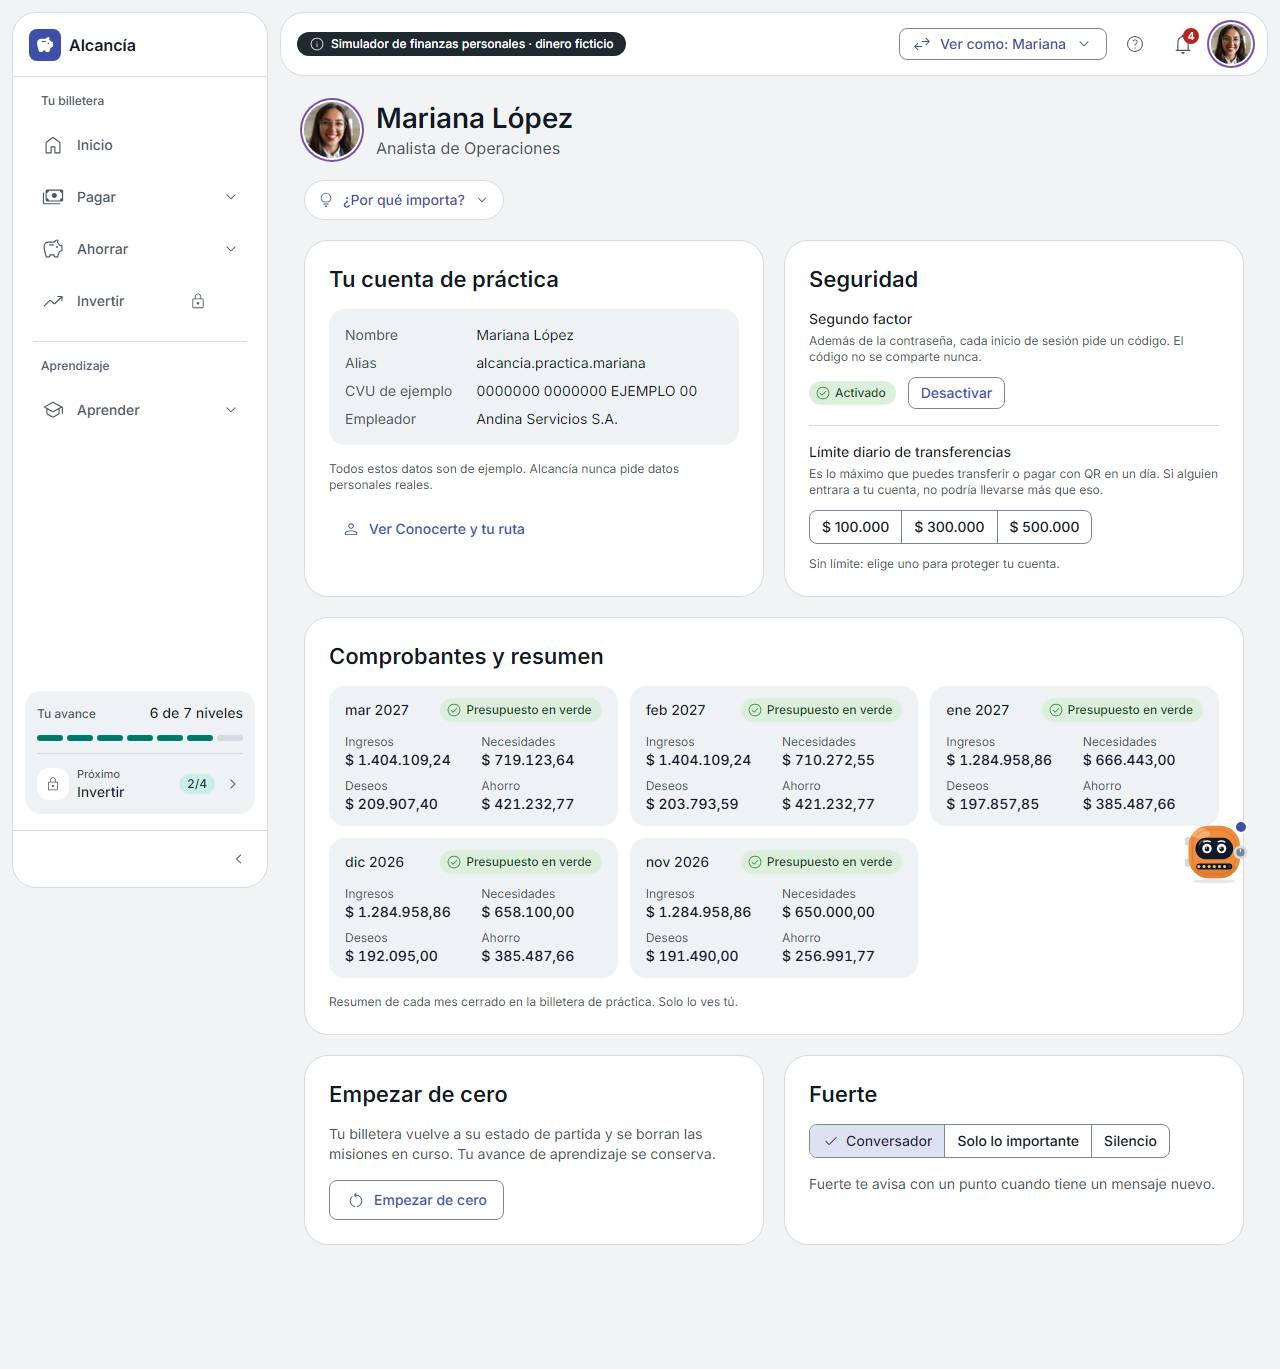
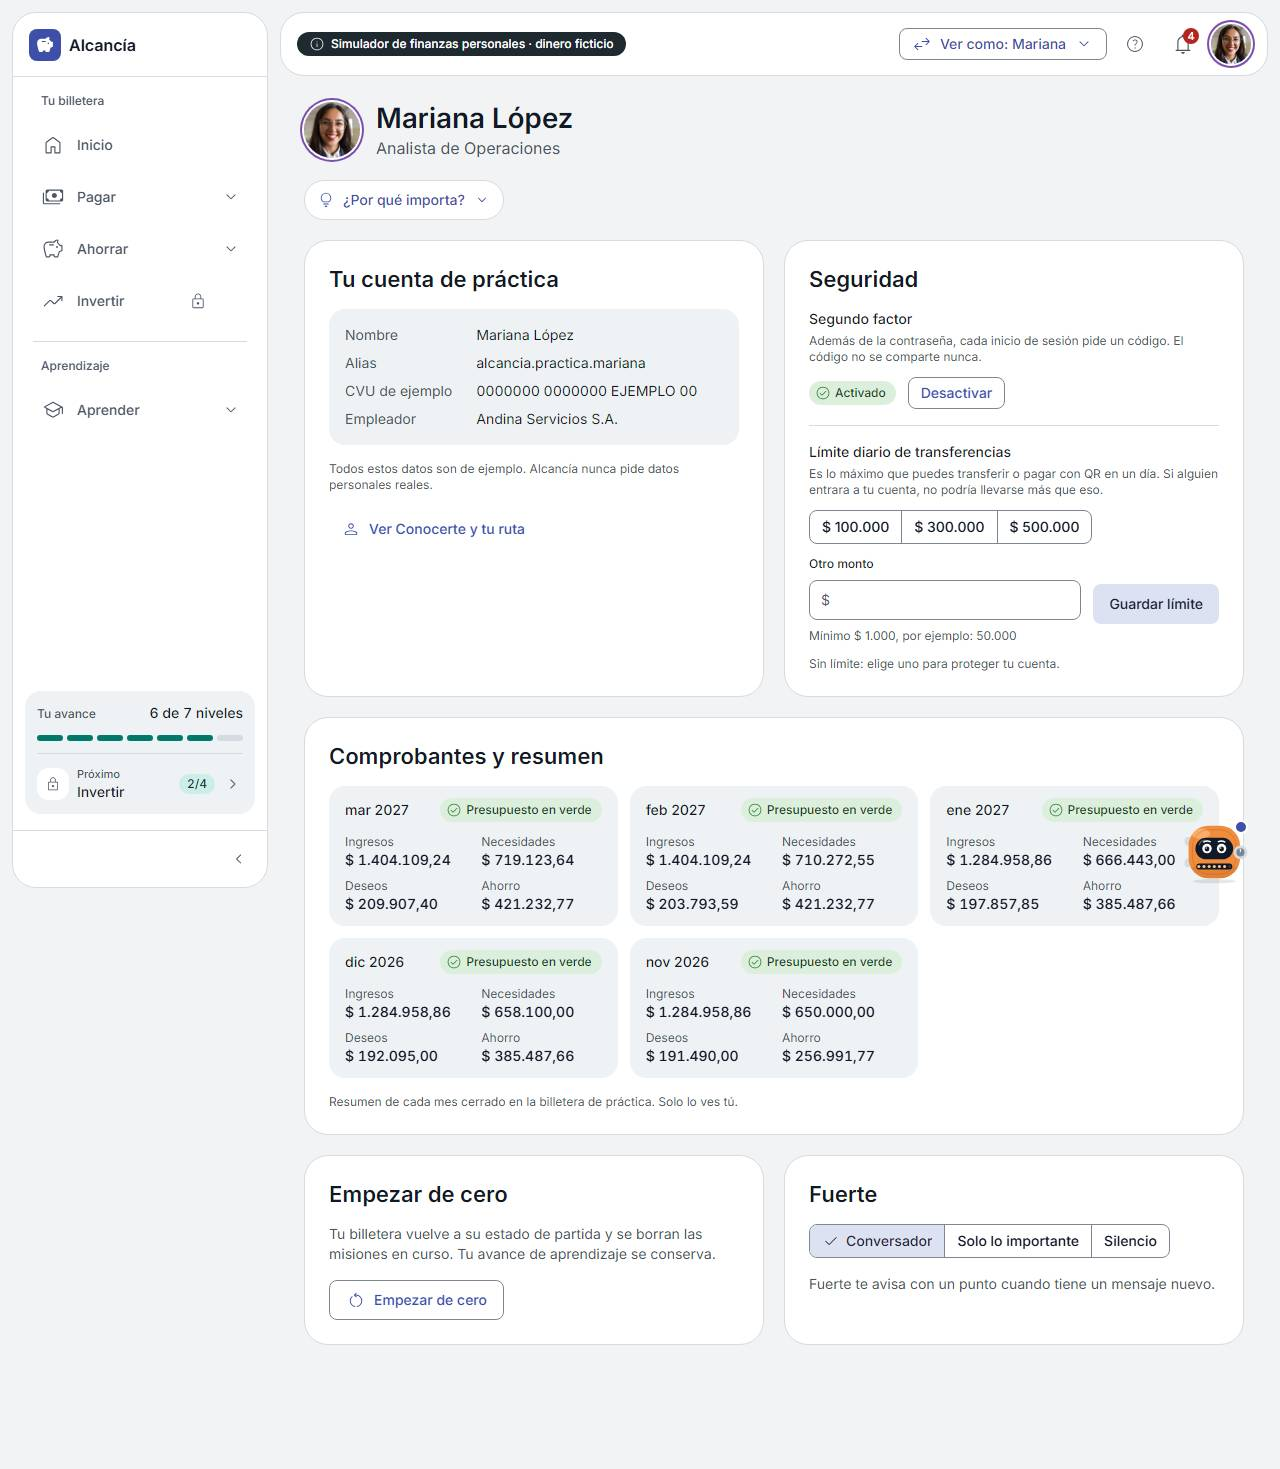
Own daily limit with a $ 1.000 minimum (D-222)
Profile adds "Otro monto" next to the three quick amounts; the engine refuses
a limit under $ 1.000 (limit_too_low), with a test.

diff --git a/src/features/profile/ProfilePage.tsx b/src/features/profile/ProfilePage.tsx
@@ -1,6 +1,7 @@
 import { useState } from 'react';
 import { useTranslation } from 'react-i18next';
 import { Link } from 'react-router';
+import { MoneyInput } from '@/components/money/MoneyInput';
 import { MoneyText } from '@/components/money/MoneyText';
 import { Avatar } from '@/components/ui/Avatar';
 import { Button } from '@/components/ui/Button';
@@ -12,9 +13,9 @@ import { toast } from '@/components/ui/toast-store';
 import { findPerson } from '@/features/auth/auth-service';
 import { AccountData } from '@/features/onboarding/AccountData';
 import { WalletShell } from '@/features/wallet/WalletShell';
-import { paidToday, setDailyLimit, setTwoFactor } from '@/features/wallet/engine/engine';
+import { MIN_DAILY_LIMIT, paidToday, setDailyLimit, setTwoFactor } from '@/features/wallet/engine/engine';
 import { walletDate } from '@/lib/dates';
-import { formatMoney } from '@/lib/money';
+import { formatMoney, parseDecimalInput } from '@/lib/money';
 import { type FuertePresence, readLocal, writeLocal } from '@/store/local-store';
 import { useCurrentUser } from '@/store/session-store';
 import { clearWallet, useWallet } from '@/store/wallet-store';
@@ -48,6 +49,20 @@ export function ProfilePage() {
   const [presence, setPresence] = useState<FuertePresence>(() => readLocal(personId).fuertePresence ?? 'chatty');
   const [confirmReset, setConfirmReset] = useState(false);
   const security = wallet.securitySettings;
+  // Own limit, at least $ 1.000 (D-222); the error appears only after trying to save
+  const [ownLimit, setOwnLimit] = useState('');
+  const [limitError, setLimitError] = useState<string | undefined>();
+  const saveOwnLimit = () => {
+    const parsed = parseDecimalInput(ownLimit);
+    if (!parsed || Number(parsed) < Number(MIN_DAILY_LIMIT)) {
+      setLimitError(t('profile.security.limitTooLow', { min: formatMoney(MIN_DAILY_LIMIT, { decimals: 0 }) }));
+      return;
+    }
+    setWallet((w) => setDailyLimit(w, parsed));
+    setLimitError(undefined);
+    setOwnLimit('');
+    toast.success(t('profile.security.limitSaved'));
+  };
   const card = 'flex flex-col gap-4 rounded-xl border border-outline-variant bg-surface-container-lowest p-(--space-card-padding)';
 
   const changePresence = (value: FuertePresence) => {
@@ -122,6 +137,22 @@ export function ProfilePage() {
               }}
               options={LIMITS.map((value) => ({ value, label: t('profile.security.limitOption', { amount: formatMoney(value, { decimals: 0 }) }) }))}
             />
+            <div className="flex flex-wrap items-start gap-3">
+              <MoneyInput
+                label={t('profile.security.limitOwn')}
+                helperText={t('profile.security.limitOwnHelp', { min: formatMoney(MIN_DAILY_LIMIT, { decimals: 0 }) })}
+                value={ownLimit}
+                onChange={(e) => {
+                  setOwnLimit(e.target.value);
+                  if (limitError) setLimitError(undefined);
+                }}
+                error={limitError}
+                className="min-w-0 flex-1 basis-48"
+              />
+              <Button variant="tonal" className="mt-7 shrink-0" onClick={saveOwnLimit}>
+                {t('profile.security.limitSave')}
+              </Button>
+            </div>
             {security.dailyLimit ? (
               <div className="flex flex-col gap-1.5">
                 <ProgressBar

diff --git a/src/features/wallet/engine/goals.test.ts b/src/features/wallet/engine/goals.test.ts
@@ -1,6 +1,6 @@
 import { describe, expect, it } from 'vitest';
 import { D } from '@/lib/finance';
-import { advanceDays, createPocket, createWallet, deletePocket, moveToPocket, nextGoalPocketId, setPocketGoal, WalletError } from './engine';
+import { setDailyLimit, advanceDays, createPocket, createWallet, deletePocket, moveToPocket, nextGoalPocketId, setPocketGoal, WalletError } from './engine';
 
 describe('new goal pockets', () => {
   it('gives every new goal its own id, so five goals are five pockets', () => {
@@ -45,5 +45,12 @@ describe('deleting a goal (D-220)', () => {
     const s = createPocket(createPocket(createWallet('p'), { id: 'pocket-savings', name: 'Ahorro' }), { id: 'fund', name: 'Fondo', isEmergencyFund: true });
     expect(() => deletePocket(s, 'pocket-savings')).toThrow(WalletError);
     expect(() => deletePocket(s, 'fund')).toThrow(WalletError);
+  });
+});
+
+describe('daily limit (D-222)', () => {
+  it('accepts $ 1.000 or more and refuses less', () => {
+    expect(setDailyLimit(createWallet('p'), '1000').securitySettings.dailyLimit).toBe('1000.00');
+    expect(() => setDailyLimit(createWallet('p'), '999.99')).toThrow(WalletError);
   });
 });

diff --git a/src/features/wallet/engine/engine.ts b/src/features/wallet/engine/engine.ts
@@ -579,8 +579,12 @@ export function raiseExpense(state: WalletState, key: ExpenseKey, amount: string
   return next;
 }
 
-/** Daily transfer limit of practice (mission "Configura tu seguridad", 5.3 Seguridad). */
+/** The lowest daily limit the person can set (D-222). */
+export const MIN_DAILY_LIMIT = '1000.00';
+
+/** Daily transfer limit of practice (mission "Configura tu seguridad", 5.3 Seguridad); at least $ 1.000 (D-222). */
 export function setDailyLimit(state: WalletState, amount: string | undefined): WalletState {
+  if (amount !== undefined && roundCents(amount).lt(MIN_DAILY_LIMIT)) throw new WalletError('limit_too_low');
   const next = clone(state);
   next.securitySettings = { ...next.securitySettings, dailyLimit: amount === undefined ? undefined : toMoneyString(roundCents(amount)) };
   return next;

diff --git a/docs/progress.md b/docs/progress.md
@@ -42,4 +42,4 @@
 | 14/11/2026 | 18 · Consecuencias en la billetera | Tarjeta de la suscripción con el texto de A-34 y la spec alineada; borrado de lo guardado para volver de la guía (condición de D-212); `wallet-engine.md` sección 17 y casos F-35 a F-37 en `formulas.md` antes de tocar el motor; misiones en la billetera propia con decisiones finales, saldo insuficiente con salida y "Repetir para practicar" en una copia rotulada; pérdida por mensaje falso con reporte que frena el segundo intento; "Sal de tus deudas" aplica el método a las deudas propias (D-213); 19 tests nuevos; Mariana sigue en el nivel 6 y Diego en el 2 | **Aprobado por Lourdes (14/11/2026)** |
 | 14/11/2026 | 19 · Evaluación y detalles | Capital original del préstamo hasta la primera cuota; "Aguanta la caída" desde la cartera real (D-214); carril para Fuerte desde 600 px, espacio al final en celular y franjas de resultado por encima, con test en las pantallas de la billetera y los 6 anchos (D-215); casos con decisiones en los desafíos de los niveles 5 y 6 (D-216); insignias que explican cómo obtenerse (D-210); chips de fuentes sin códigos; misión sugerida del nivel actual | **Aprobado por Lourdes (14/11/2026)** |
 | 14/11/2026 | 19b · Ajustes de Lourdes | Casos con decisiones con el fondo cubierto y el plazo mínimo del UVA verificado en el BCRA (90 días, Q-16); "Vale tu mejor intento"; panel a todo el ancho y Fuerte como antes (D-215 revertida); montos en tres columnas por contenedor en Presupuesto y Apartados; "Meses cerrados" en la columna lateral; metas debajo del fondo; listas de tarjetas con tres por fila como máximo (D-217) | Lourdes revisa |
-| 14/11/2026 | 19c · Ajustes de Lourdes | Tarjetas de opción (`OptionCard`, D-218) en Rendir y en el sistema de diseño; Apartados en una columna con "Nueva meta" en ventana, arriba de las metas (D-219); corregido que las metas nuevas se pisaban entre sí; "¿Por qué importa?" a todo el ancho; eliminar una meta devuelve su dinero al saldo, con el saldo disponible y lo separado arriba de Apartados (D-220); accesos de Pagar con hasta cuatro por fila y textos de una línea; Perfil reordenado con el límite diario explicado (D-221) | Lourdes revisa |
+| 14/11/2026 | 19c · Ajustes de Lourdes | Tarjetas de opción (`OptionCard`, D-218) en Rendir y en el sistema de diseño; Apartados en una columna con "Nueva meta" en ventana, arriba de las metas (D-219); corregido que las metas nuevas se pisaban entre sí; "¿Por qué importa?" a todo el ancho; eliminar una meta devuelve su dinero al saldo, con el saldo disponible y lo separado arriba de Apartados (D-220); accesos de Pagar con hasta cuatro por fila y textos de una línea; Perfil reordenado con el límite diario explicado (D-221) y propio, de $ 1.000 como mínimo (D-222) | Lourdes revisa |

diff --git a/docs/decisions.md b/docs/decisions.md
@@ -145,3 +145,4 @@
 | D-219 | 14/11/2026 | ¿Cómo se ordena Apartados y metas, y dónde se crea una meta? | Una sola columna a todo el ancho: el fondo de emergencia, "Tus metas y apartados" y "Aprende y practica" (sus accesos, dos por fila). Crear va **arriba de las metas creadas**, en una franja propia (borde punteado `primary`, ícono y texto) con el botón "Nueva meta", que abre una ventana con el formulario, el precio estimado y el ahorro mensual. **Error corregido:** todas las metas nuevas recibían el mismo identificador, así que desde la segunda cada una reemplazaba a la anterior; ahora cada una tiene el suyo (`nextGoalPocketId`, con test). "¿Por qué importa?" ocupa todo el ancho: el concepto y "Ver en la guía" a la izquierda, las fuentes a la derecha cuando hay lugar | Pedidos de Lourdes del 14/11/2026 | Lourdes revisa |
 | D-220 | 14/11/2026 | ¿Se puede eliminar una meta, y qué pasa con su dinero? | Sí, desde su tarjeta ("Eliminar", con confirmación que repite la consecuencia: "Eliminar meta"). Lo que tiene el apartado vuelve al saldo disponible como un movimiento de salida del apartado, así queda en el historial; la meta no se recupera. No se pueden eliminar el apartado "Ahorro" básico (D-53) ni el fondo de emergencia, porque las misiones y el desbloqueo de Invertir los leen; para esos sigue "Retirar". Tests en el motor. Para que se vea a dónde va el dinero, Apartados muestra arriba el **saldo disponible** y lo **separado en apartados**; la ventana de "Retirar" dice que vuelve al saldo disponible y cuánto es hoy, y el aviso lo repite | Pedido de Lourdes del 14/11/2026 | Lourdes revisa |
 | D-221 | 14/11/2026 | ¿Cómo se ordena Perfil, y cómo se entiende el límite diario? | Panel a todo el ancho: tu cuenta y Seguridad arriba; "Comprobantes y resumen" siempre a todo el ancho, con los meses de a tres por fila (`grid-fill-3`) y sus montos en columnas por contenedor; abajo "Empezar de cero" y Fuerte a la derecha. El límite diario tiene título visible, qué es (lo máximo que puedes transferir o pagar con QR en un día, y por qué protege) y cuánto usaste hoy con una barra; el contador vuelve a cero cada día. El motor ya lo aplicaba (`daily_limit`) | Pedido de Lourdes del 14/11/2026 | Lourdes revisa |
+| D-222 | 14/11/2026 | ¿Puede la persona fijar su propio límite diario? | Sí: además de los tres montos rápidos, un campo "Otro monto" con mínimo de $ 1.000, para que el límite siempre proteja algo. El motor también lo exige (`limit_too_low`), con test. El valor de partida no cambia | Pedido de Lourdes del 14/11/2026 | Lourdes revisa: confirmar si el mínimo de $ 1.000 es lo que pedía |
